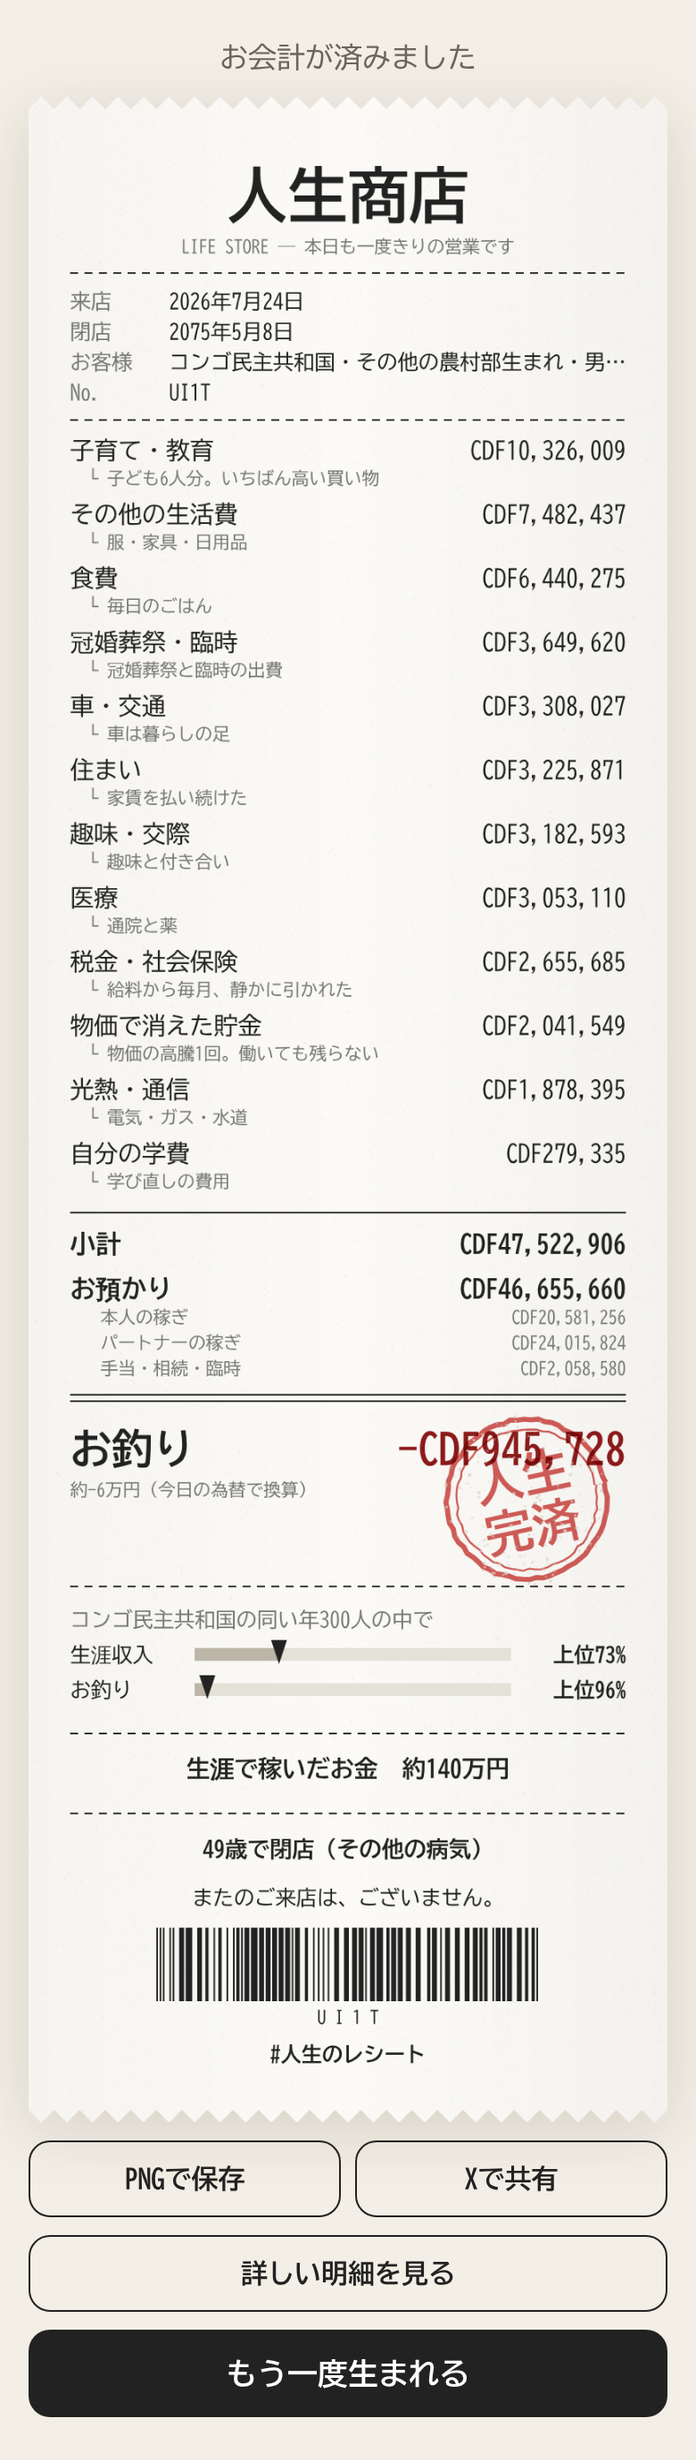
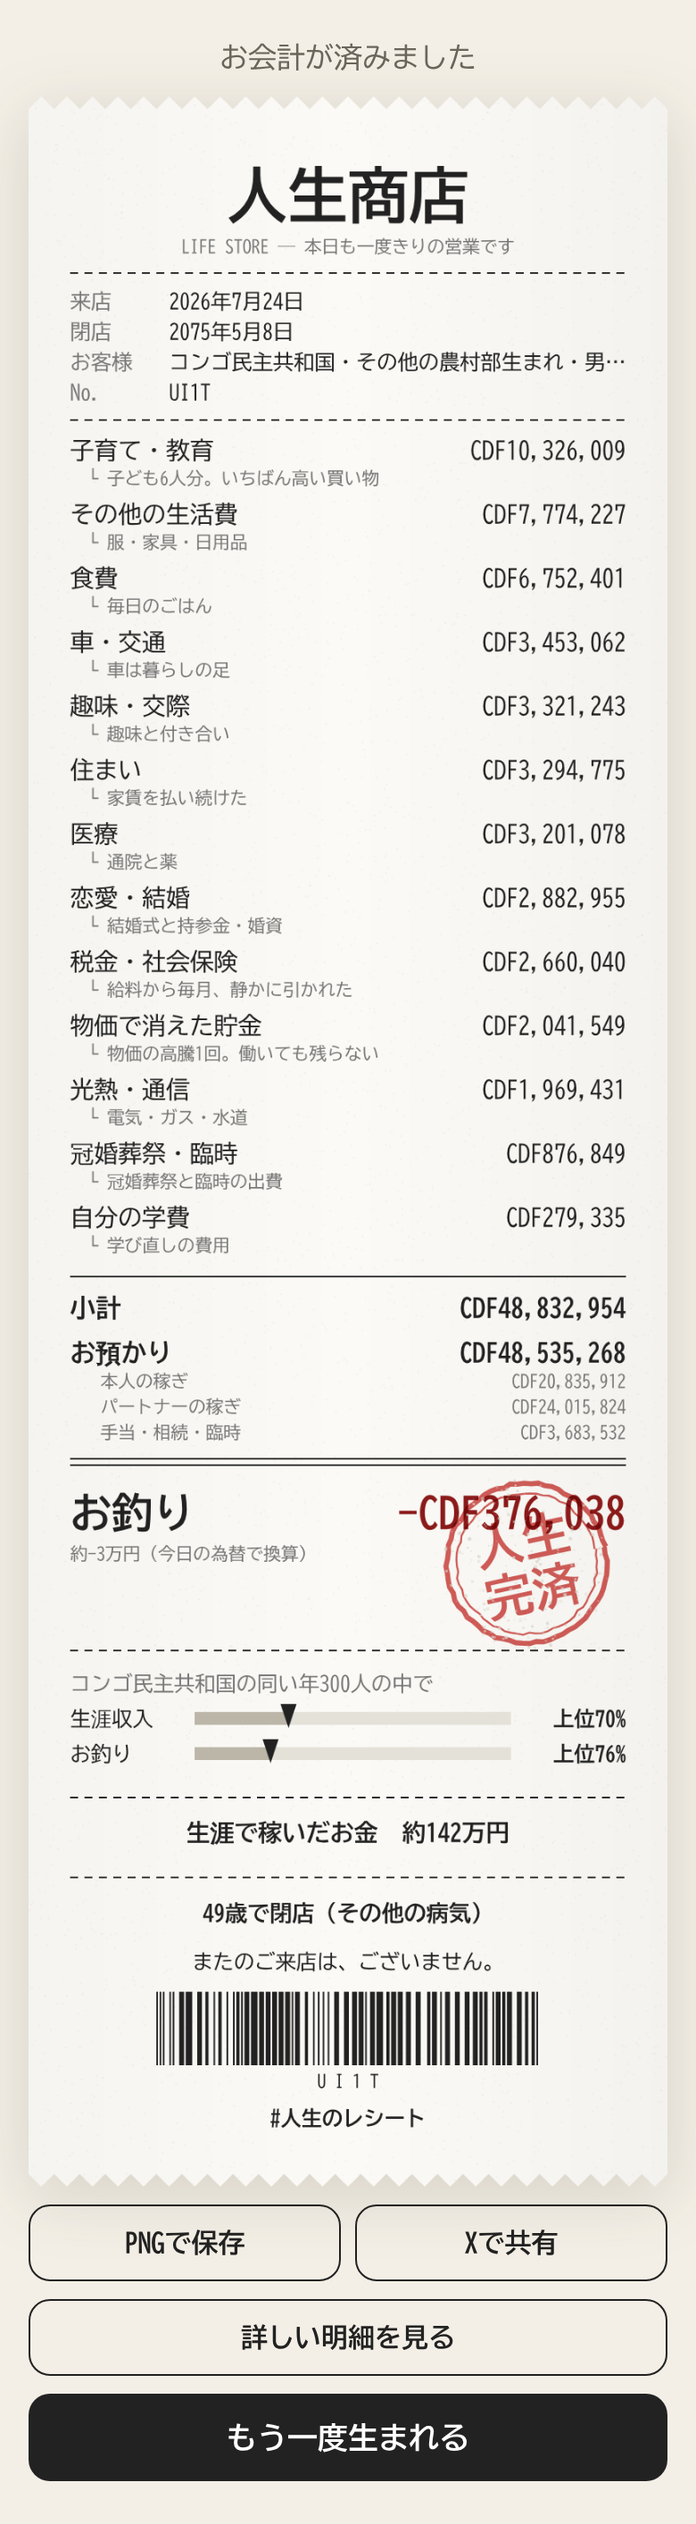
実家を出るかの選択、離婚・死別後の出会い、20歳からの死亡、恋愛・結婚の出費を追加。第7部を取り込む
- 働きはじめたとき・貯金がたまったときに、実家を出るか実家から通うかを選ぶ
- 子どもが巣立つ年齢で、一人立ち／実家から通う／引っ越し代を出す を選ぶ（家族の人数に反映）
- 離婚・死別のあとは出会いを少なめにし、そのまま独り身のことも多くする
- 亡くなる可能性を20歳からにした
- デート代・結婚式・持参金や婚資をレシートの「恋愛・結婚」にまとめる
- 第7部（結婚のしかた）を取り込み：IND・PAK・BGD・ETH・NGA・JPN の見合いの割合、IND・PAK・CHN・EGY の持参金・婚資
- 共有URLの版を5に上げた

Claude-Session: https://claude.ai/code/session_01P8h7G7H9Hz4F9jwmunJGJH

diff --git a/src/engine/sim.ts b/src/engine/sim.ts
@@ -6,6 +6,7 @@ import { MICROS } from "./micro";
 import { riskYear, countryEventScene, ipvHazard } from "./risks";
 import { kidsScene, kidsAgainScene, fertilityScene, strainScene, dvScene, type Scene } from "./scenes";
 import { drawMarriageMode, meetScene, loveScene, arrangedScene, betrothedScene, type MarriageMode } from "./marriage";
+import { leaveHomeScene, kidLeaveScene, kidAtHome } from "./home";
 import type {
   Choice,
   ChoiceId,
@@ -145,7 +146,20 @@ export class Life {
   /** 恋人と付き合っている（結婚の前の段階） */
   dating = false;
   datingSince = -1;
-  kids: { born: number; privateSchool: boolean; univ: boolean; away: boolean; decided?: boolean; loan?: boolean }[] = [];
+  kids: {
+    born: number;
+    privateSchool: boolean;
+    univ: boolean;
+    away: boolean;
+    decided?: boolean;
+    loan?: boolean;
+    /** 巣立つ年齢になっても実家から通って働いている */
+    stayHome?: boolean;
+    /** 家を出た年齢（自分の年齢） */
+    leftAge?: number;
+  }[] = [];
+  /** 実家から通って働いている間、「そろそろ家を出る？」と考えるのはこの年齢から */
+  leaveAskAfter = 0;
   home: Home = "parents";
   loan = 0;
   loanAnnual = 0;
@@ -246,7 +260,7 @@ export class Life {
     const out = ["自分"];
     const p = this.partner;
     if (p && p.alive) out.push(p.sex === "male" ? "夫" : "妻");
-    const kidsHome = this.kids.filter((k) => a - k.born < (k.univ ? 22 : 18)).length;
+    const kidsHome = this.kids.filter((k) => kidAtHome(k, a)).length;
     if (kidsHome) out.push(`子ども${kidsHome}人`);
     if (this.home === "parents") {
       if (this.parents[0].alive) out.push("父");
@@ -698,7 +712,8 @@ export class Life {
       else if (!this.noMarry && this.marriageMode === "arranged" && a >= this.arrangedAge && a < 45 && !this.dating && r.chance(0.5))
         this.queueScene(arrangedScene(this));
       else if (this.dating) {
-        // 付き合っている間：別れることもあれば、結婚の話になることもある
+        // 付き合っている間：デート代がかかる。別れることもあれば、結婚の話になることもある
+        this.spend("love", this.y(150_000));
         if (r.chance(0.12)) {
           this.dating = false;
           this.log("family", "恋人と別れた。");
@@ -708,14 +723,25 @@ export class Life {
         const boost = a < this.marriageBoostUntil ? this.marriageBoost : 1;
         const mode = this.marriageMode === "love" ? 4 : 0.9;
         // 付き合ってから結婚まで2年ほどかかるので、2年先の結婚しやすさで出会いが起きる
-        if (r.chance(this.marriageHazard(a + 2) * mode * boost * (this.noMarry ? 0.25 : 1))) this.queueScene(meetScene(this));
+        const again = this.partnerSince >= 0 ? (a >= 50 ? 0.2 : 0.45) : 1;
+        if (r.chance(this.marriageHazard(a + 2) * mode * boost * again * (this.noMarry ? 0.25 : 1))) this.queueScene(meetScene(this));
       }
+    }
+    // 実家から通って働いている：貯金がたまってきたら「そろそろ家を出る？」
+    if (this.home === "parents" && this.school === "done" && this.job !== "none" && this.job !== "retired" && !this.partner && !this.coLiveParents) {
+      if (a >= Math.max(22, this.leaveAskAfter) && a < 45 && this.cash > this.y(1_000_000) && r.chance(0.3)) this.queueScene(leaveHomeScene(this, true));
     }
     // 子どもの節目
     for (const k of this.kids) {
       const ka = a - k.born;
-      if (ka === 22 && k.univ) this.log("family", "子どもが大学を卒業して独り立ちした。");
-      else if (ka === 18 && !k.univ) this.log("family", "子どもが高校を出て働きはじめた。");
+      if ((ka === 22 && k.univ) || (ka === 18 && !k.univ)) this.queueScene(kidLeaveScene(this, this.kids.indexOf(k)));
+      else if (k.stayHome && k.leftAge === undefined && ka > 18) {
+        // 実家から通う子どもは家にお金を入れ、いずれ貯めたお金で家を出る
+        if (r.chance(0.18) || ka >= 35) {
+          k.leftAge = a;
+          this.log("family", `実家から通っていた子ども（${ka}歳）が、貯めたお金で家を出た。`);
+        } else this.addIncome("windfall", this.y(360_000));
+      }
     }
   }
   childSupport = false;
@@ -757,7 +783,7 @@ export class Life {
     this.queueScene(kidsScene(this));
     if (ceremony ?? r.chance(0.5)) {
       const net = this.D.living.weddingCost * 0.45;
-      this.spend("events", net);
+      this.spend("love", net);
       this.log("money", "結婚式を挙げた。ご祝儀で半分ほど戻った。", -net);
     }
     if (this.home === "parents" && this.school === "done") this.home = "rent";
@@ -1243,7 +1269,7 @@ export class Life {
     const ref = elderly ? (fam ? this.y(3_000_000) : this.y(1_900_000)) : fam ? this.y(5_600_000) : this.y(3_000_000);
     const scale = Math.min(1.8, Math.max(elderly ? 0.45 : 0.6, Math.pow(Math.max(1, disp) / ref, 0.55)));
     annual *= scale;
-    const kidsLiving = this.kids.filter((k) => a - k.born < 22).length;
+    const kidsLiving = this.kids.filter((k) => kidAtHome(k, a) || a - k.born < 22).length;
     annual *= 1 + (kidsLiving > 0 ? 0.08 * kidsLiving : 0);
     annual *= reg * this.thrift * (this.frugal ? 0.8 : 1) * (this.welfare ? 0.75 : 1);
     if (this.home === "parents") annual *= 0.55;
@@ -1339,7 +1365,7 @@ export class Life {
 
   private mortality(): void {
     const a = this.age;
-    if (a < 18) return; // 子ども時代の死亡は扱わない（体験として重すぎるため）
+    if (a < 20) return; // 20歳になるまでの死亡は扱わない（お金の一生が主題で、子ども時代の死は重すぎるため）
     let q = this.D.qx(this.sex, a);
     q *= BAND_MORTALITY[this.band.id] ?? 1;
     q *= this.illMult;
@@ -1754,10 +1780,7 @@ function applyChoice(l: Life, id: ChoiceId, o: string, r: Rng): void {
       } else l.logPre("work", o === "sme" ? "中小企業の正社員になった。" : "非正規の仕事で働きはじめた。");
       l.job = job;
       l.jobStart = a;
-      if (l.home === "parents" && r.chance(l.region.id === "rural" ? 0.45 : 0.6)) {
-        l.home = "rent";
-        l.logPre("life", "実家を出て一人暮らしを始めた。");
-      }
+      if (l.home === "parents") l.queueScene(leaveHomeScene(l, false));
       break;
     }
     case "invest":
@@ -1943,6 +1966,8 @@ export function replay(seed: string, picks: string[], country: CountryData = JAP
 /** 選択をランダムに（決定的に）行う自動プレイ。同い年の比較用 */
 const AUTO_WEIGHTS: Record<string, number[]> = {
   "ev:meet": [0.72, 0.18, 0.1],
+  "ev:leaveHome": [0.55, 0.45],
+  "ev:kidLeave": [0.6, 0.3, 0.1],
   "ev:propose": [0.5, 0.35, 0.12, 0.03],
   "ev:arranged": [0.7, 0.22, 0.08],
   "ev:betrothed": [0.92, 0.08],

diff --git a/src/engine/home.ts b/src/engine/home.ts
@@ -1,0 +1,87 @@
+// 実家を出るかどうか（自分と、自分の子ども）。
+// 働きはじめても実家から通ってお金を貯める人もいれば、貯まってから家を出る人、ずっと実家で暮らす人もいる。
+import type { Rng } from "./rng";
+import type { Scene } from "./scenes";
+import type { Life } from "./sim";
+
+type Kid = Life["kids"][number];
+
+/** 子どもがまだ一緒に暮らしているか。ふつうは高校を出て働けば18歳、大学に進めば22歳で巣立つ */
+export function kidAtHome(k: Kid, age: number): boolean {
+  if (k.leftAge !== undefined) return false;
+  const ka = age - k.born;
+  return ka < (k.univ ? 22 : 18) || !!k.stayHome;
+}
+
+/** 自分が実家を出るか。later は、実家から通って働いていて貯金がたまってきたとき */
+export function leaveHomeScene(l: Life, later: boolean): Scene {
+  return {
+    id: "leaveHome",
+    title: "実家を出る？",
+    situation: later
+      ? `実家から仕事に通って、貯金が${l.D.fmt(Math.max(0, l.cash), false)}になった。そろそろ家を出る？`
+      : "働きはじめた。このまま実家から通うか、家を出て一人で暮らすか。",
+    options: [
+      {
+        id: "leave",
+        label: later ? "貯めたお金で家を出る" : "実家を出て一人暮らしを始める",
+        desc: "自分のペースで暮らせる。家賃と生活費が全部かかる。",
+        apply: (l) => {
+          l.home = "rent";
+          l.logPre("life", later ? "貯めたお金で実家を出て、一人暮らしを始めた。" : "実家を出て一人暮らしを始めた。", undefined, true);
+        },
+      },
+      {
+        id: "stay",
+        label: later ? "もうしばらく実家にいる" : "実家から通ってお金を貯める",
+        desc: "家にお金を入れても、家賃より安く済んで貯金しやすい。親の老いや介護が身近になる。",
+        apply: (l, r: Rng) => {
+          l.leaveAskAfter = l.age + r.int(2, 4);
+          l.logPre("life", later ? "もうしばらく実家で暮らすことにした。" : "実家から仕事に通い、毎月家にお金を入れることにした。");
+        },
+      },
+    ],
+  };
+}
+
+/** 自分の子どもが巣立つ年齢になったとき */
+export function kidLeaveScene(l: Life, idx: number): Scene {
+  const k = l.kids[idx];
+  const word = k.univ ? "大学を卒業して働きはじめた" : "高校を出て働きはじめた";
+  return {
+    id: "kidLeave",
+    title: "子どもの巣立ち",
+    situation: `子どもが${word}。これからどこで暮らす？`,
+    options: [
+      {
+        id: "leave",
+        label: "一人立ちを見送る",
+        desc: "子どもは自分の力で暮らしはじめる。家計は軽くなる。",
+        apply: (l) => {
+          k.leftAge = l.age;
+          l.logPre("family", "子どもが家を出て、一人立ちした。", undefined, true);
+        },
+      },
+      {
+        id: "stay",
+        label: "実家から通ってもらう",
+        desc: "子どもは貯金しやすく、家にもお金を入れてくれる。暮らしの費用はそのぶんかかる。",
+        apply: (l) => {
+          k.stayHome = true;
+          l.logPre("family", "子どもは実家から仕事に通い、家にお金を入れてくれることになった。");
+        },
+      },
+      {
+        id: "help",
+        label: "引っ越しと当面の生活費を出してあげる",
+        desc: "子どもは安心して一人立ちできる。まとまったお金がかかる。",
+        apply: (l) => {
+          const c = l.y(500_000);
+          l.spend("kids", c);
+          k.leftAge = l.age;
+          l.logPre("family", "引っ越しと当面の生活費を出して、子どもの一人立ちを支えた。", -c, true);
+        },
+      },
+    ],
+  };
+}

diff --git a/src/engine/result.ts b/src/engine/result.ts
@@ -6,7 +6,7 @@ import { pickCountry, type Mode } from "./world";
 import { streamRng } from "./rng";
 import { EXPENSE_LABEL, type ExpenseCat, type LifeEvent } from "./types";
 
-export const CODEC_VERSION = "4";
+export const CODEC_VERSION = "5";
 
 export interface ReceiptItem {
   label: string;
@@ -41,7 +41,7 @@ export function picksOf(l: Life): number[] {
   return l.choiceLog.map((c) => c.pickIndex ?? 0);
 }
 
-// 版4（結婚までを段階的にした）：`4.<モード j|m|w>.<シード>.<選んだ番号の並び>`。国はモードとシードから決まる
+// 版5（実家を出るかの選択などを追加）：`5.<モード j|m|w>.<シード>.<選んだ番号の並び>`。国はモードとシードから決まる
 export function encodeResult(l: Life): string {
   return `${CODEC_VERSION}.${l.mode}.${l.seed}.${picksOf(l).join("")}`;
 }
@@ -127,6 +127,11 @@ function memoFor(l: Life, cat: ExpenseCat, amount: number): string {
       return has("災害") || has("地震") ? "災害の修理を含む" : "冠婚葬祭と臨時の出費";
     case "selfEdu":
       return l.choiceLog.some((c) => /loan|night/.test(c.optionId)) ? "奨学金と学費" : "学び直しの費用";
+    case "love": {
+      const wed = has("結婚式を挙げた");
+      const pay = has("持参金") || has("婚資");
+      return [has("付き合いはじめた") ? "デート代" : "", wed ? "結婚式" : "", pay ? "持参金・婚資" : ""].filter(Boolean).join("と") || "出会いと結婚";
+    }
     case "inflation": {
       const spells = ev.filter((e) => e.text.includes("実際に記録された上昇率")).length;
       return spells > 0 ? `物価の高騰${spells}回。働いても残らない` : "物価が上がり、少しずつ目減り";
@@ -139,7 +144,7 @@ function memoFor(l: Life, cat: ExpenseCat, amount: number): string {
 export function buildReceipt(l: Life): ReceiptData {
   const s = l.summary();
   const c = cohort(l.D);
-  const order: ExpenseCat[] = ["housing", "food", "tax", "kids", "car", "fun", "other", "utilities", "medical", "care", "selfEdu", "events", "inflation"];
+  const order: ExpenseCat[] = ["housing", "food", "tax", "kids", "car", "fun", "other", "utilities", "medical", "care", "selfEdu", "events", "love", "inflation"];
   const items: ReceiptItem[] = order
     .map((k) => ({ label: EXPENSE_LABEL[k], amount: Math.round(s.expenseTotal[k] ?? 0), memo: memoFor(l, k, s.expenseTotal[k] ?? 0) }))
     // 1万円未満の項目は省く（米ドルなど1単位が大きい通貨でも同じ基準になるよう、円に直して比べる）

diff --git a/src/engine/marriage.ts b/src/engine/marriage.ts
@@ -53,12 +53,12 @@ function payForMarriage(l: Life, r: Rng): void {
       l.log("money", "妻の家から持参金（ダウリー）が届いた。新しい暮らしの家財になった。", amount * 0.5);
     } else {
       // 多くは親が用意するが、自分の貯えからも出す
-      l.spend("events", amount * 0.35);
+      l.spend("love", amount * 0.35);
       l.log("money", "結婚にあたり、家族と出し合って持参金（ダウリー）を用意した。", -amount * 0.35, true);
     }
   } else if (n.payment === "brideprice") {
     if (male) {
-      l.spend("events", amount);
+      l.spend("love", amount);
       l.log("money", "妻の家へ婚資（ブライドプライス）を払った。何年分もの稼ぎが一度に出ていった。", -amount, true);
     } else {
       l.addIncome("windfall", amount * 0.2);
@@ -66,7 +66,7 @@ function payForMarriage(l: Life, r: Rng): void {
     }
   } else if (n.payment === "mahr") {
     if (male) {
-      l.spend("events", amount);
+      l.spend("love", amount);
       l.log("money", "妻へ婚資（マフル）を贈った。", -amount, true);
     } else {
       l.addIncome("windfall", amount * 0.8);

diff --git a/src/engine/types.ts b/src/engine/types.ts
@@ -22,6 +22,7 @@ export type ExpenseCat =
   | "car"
   | "fun"
   | "events"
+  | "love" // デート代・結婚式・持参金や婚資
   | "inflation" // 物価の上昇で目減りした現金
   | "other";
 
@@ -39,6 +40,7 @@ export const EXPENSE_LABEL: Record<ExpenseCat, string> = {
   car: "車・交通",
   fun: "趣味・交際",
   events: "冠婚葬祭・臨時",
+  love: "恋愛・結婚",
   inflation: "物価で消えた貯金",
   other: "その他の生活費",
 };

diff --git a/data/world/build/apply_manual.py b/data/world/build/apply_manual.py
@@ -40,6 +40,13 @@ def drop_est(obj, key):
 TOO_OLD = {"remittance_share_gdp", "secondary_net_enrollment", "tertiary_gross_enrollment", "consumption_per_capita_lcu"}
 skipped_old = []
 
+# 届いた値のうち、今の暮らしを表さないため取り込まないもの（理由つき）
+REJECT = {
+    ("IDN", "arranged_marriage_share"): "1930年以前に生まれた女性だけの値",
+    ("VNM", "arranged_marriage_share"): "1995年の紅河デルタ周辺の地域値で、今の結婚を表さない",
+}
+rejected = []
+
 tax_parts = {}
 # 年ごとの物価上昇率（build/cpi_series.py で作る）。古い平均月収を税率表の年の金額に直すのに使う
 CPI = json.loads((ROOT / "cpi_annual.json").read_text(encoding="utf-8"))
@@ -66,11 +73,19 @@ for r in rows:
     if field in TOO_OLD and r["year"][:4].isdigit() and int(r["year"][:4]) < 2010:
         skipped_old.append(f"{iso} {field} {r['year']}")
         continue
+    if (iso, field) in REJECT:
+        rejected.append(f"{iso} {field}（{REJECT[(iso, field)]}）")
+        continue
     c, k = by_iso.get(iso), risks.get(iso)
     if field == "marriage_payment_amount":
         # 婚資・持参金のふつうの額（現地通貨）。物価で最新の年に直し、1人あたり国民所得の何年分かにする
-        y4 = r["year"].strip()[:4]
-        f = cpi_factor(iso, int(y4), 2025) if y4.isdigit() else None
+        # 年が「2000-2018 (constant 2018 EGP)」のような期間なら、何年の物価で表した額かが書かれているときだけ最後の年を使う
+        ys = [int(x) for x in re.findall(r"(?:19|20)\d\d", r["year"])]
+        if len(ys) > 1 and "constant" not in (r["year"] + r["note"]).lower():
+            rejected.append(f"{iso} {field}（年が期間で、何年の物価の額か分からない）")
+            continue
+        y4 = max(ys) if ys else None
+        f = cpi_factor(iso, y4, 2025) if y4 else None
         if c is None or f is None or not c.get("gniPerCapitaLCU"):
             continue
         field, v = "marriage_payment_years", round(v * f / c["gniPerCapitaLCU"], 2)
@@ -270,6 +285,8 @@ print("反映した数（国の数。初婚年齢は男女で2）:", applied)
 print("都市の人口割合で places を組み直した国:", len(rebuilt), " ".join(rebuilt))
 if tax_computed:
     print("税・社会保険料を計算した国:", " ".join(tax_computed))
+if rejected:
+    print("取り込まなかった値:", ", ".join(rejected))
 if tax_skipped:
     print("税・社会保険料を計算しなかった国:", ", ".join(tax_skipped))
 if skipped_old:

diff --git a/data/world/sources.md b/data/world/sources.md
@@ -195,3 +195,18 @@
 | payment / paymentYears | 持参金・婚資の種類と、ふつうの働き手の年収の何年分か | 推定。南アジアは持参金1.5年分、アフガニスタンは婚資2年分、中東はマフル1年分、サハラ以南は婚資0.6年分 など |
 
 調査済みの値は手作業の CSV（arranged_marriage_share、betrothal_share、marriage_payment_amount）から apply_manual.py で置き換える。
+
+### 手作業の調査データ 第7部（jinsei_receipt_part7.csv、part7b.csv）
+
+| 国 | 家族が決める結婚の割合 | 持参金・婚資（1人あたり国民所得の何年分） | 出典・備考 |
+|---|---|---|---|
+| IND | 0.58（親が選んだ。共同選択37%は含めない） | 持参金 0.67 | IHDS 2005、持参金は南・西インドの農村3村（2008年、中央値5万ルピー） |
+| PAK | 0.81 | 持参金 0.94 | Gallup Pakistan 2024（全国）、持参金は農村パンジャブ・シンド（2004年、平均） |
+| BGD | 0.942（本人が選んだ5.8%から） | 推定のまま | Matlab の地域値。持参金は年が期間で物価の年が分からず取り込まない |
+| ETH | 0.702 | 推定のまま | 7地域のジェンダー調査 2009–10 |
+| NGA | 0.216（北中部の地域値、強制婚24%は含めない） | 推定のまま | |
+| CHN | 推定のまま | 婚資 1.25 | 福建省の裁判データ（2020年の物価、中央値11.5万元） |
+| EGY | 推定のまま | 婚資 2.45（type を mahr から brideprice に） | ELMPS（2018年の物価、中央値。住まいや家財の新郎側負担を含む） |
+| JPN | 0.098 | なし | 出生動向基本調査 2021（見合い・結婚相談所などの紹介） |
+
+取り込まなかった値：IDN（1930年以前に生まれた女性だけの値）、VNM（1995年の地域値）。

diff --git a/README.md b/README.md
@@ -25,8 +25,12 @@
 6. 亡くなるとレシートが発行される。金額は現地通貨（日本以外は円換算も併記）。**PNGで保存**／**Xで共有**／**詳しい明細を見る** ができる。
 
 - 同じシードなら同じ人生：`/?seed=好きな文字列`（タイトルでモードを選ぶ）
+- 働きはじめたら「実家を出る／実家から通って貯める」を選ぶ。実家から通っていると、貯金がたまったころに「そろそろ家を出る？」と聞かれる。自分の子どもが巣立つ年齢になったときも「一人立ちを見送る／実家から通ってもらう／引っ越し代を出す」を選ぶ。
+- 離婚やパートナーとの死別のあとは出会いが少なめで、そのまま独り身で暮らすことも多い。
+- 亡くなる可能性があるのは20歳から（お金の一生が主題のため、それより前の死亡は扱わない）。
+- デート代・結婚式・持参金や婚資は、レシートの「恋愛・結婚」の行にまとめて出る。
 - 画面の上に、いま一緒に暮らしている家族（実家にいる間は親ときょうだい、家を出たあとはパートナーと巣立つ前の子ども）の人数を出す。
-- 詳細ページ `r.html#4.<モード j|m|w>.<シード>.<選んだ番号>` はURLだけで人生を再現する（サーバー不要）。
+- 詳細ページ `r.html#5.<モード j|m|w>.<シード>.<選んだ番号>` はURLだけで人生を再現する（サーバー不要）。
 
 ### レシートのはんこ
 
